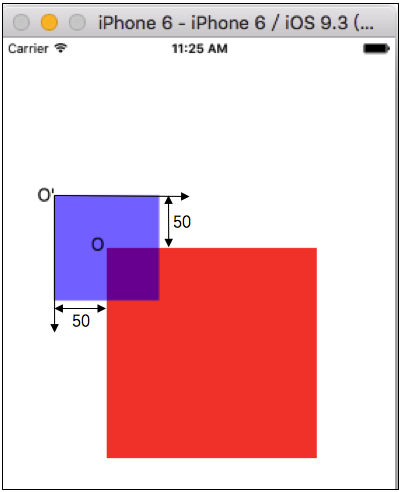
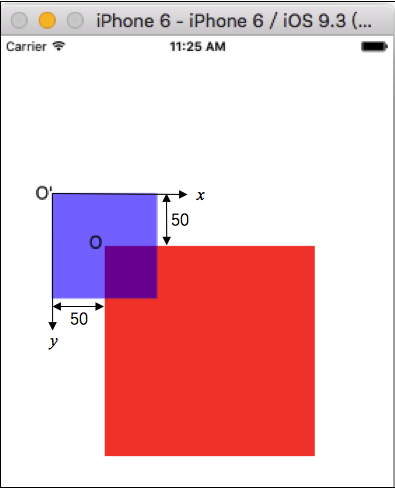
Updates chapter1.md
Auto commit by GitBook Editor

diff --git a/chapter1.md b/chapter1.md
@@ -68,7 +68,13 @@ bounds = a view's location and size using its own coordinate system
     [self.view addSubview:redView];
     [redView addSubview:blueSubView];
 ```
-从下图可以看到，当父类redView的bounds.origin修改后,子类frame origin为(0，0)的blueView左上角并没有与父类redView左上角重合，为什么会出现这种现象呢？因为一个视图的渲染是以父类bounds的坐标系为基础的。当redView的bounds.origin设置(50,50)后bounds坐标系的坐标原点(0,0)由原来的O点变为O'点。在新的坐标系下blueView出现的位置就可以理解。
+从下图可以看到，当父类redView的bounds.origin修改后,子类frame origin为(0，0)的blueView左上角并没有与父类redView左上角重合，为什么会出现这种现象呢？因为一个视图的渲染是以父类bounds的坐标系为基础的。当redView的bounds.origin设置(50,50)，也即是redView左上角O点的坐标在bounds的坐标系中为(50,50)，由此可见bounds坐标系的坐标原点(0,0)由原来的O点变为O'点。因此在新的坐标系下blueView出现的位置就可以理解。
+事实上，要知道一个view在它父视图什么地方时，记住这个公式：
+```objc
+//下图O'坐标-50 = 0 - 50；
+CompositedPosition.x = View.frame.origin.x - Superview.bounds.origin.x;
+CompositedPosition.y = View.frame.origin.y - Superview.bounds.origin.y;
+```
 <div align="center">
 <img src = "assets/pic1-4.png"</>
 </div>
